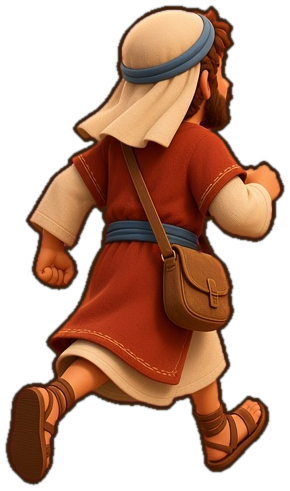
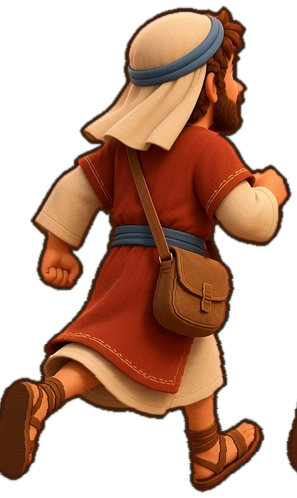
Fix runner frame color flicker; keep props clear of tower wall

diff --git a/game.js b/game.js
@@ -75,7 +75,7 @@ const M = {
   lantern: noOutline(new THREE.MeshBasicMaterial({ color: 0xffe066 })),
   rope: new THREE.LineBasicMaterial({ color: 0x6b4a2e }),
 };
-function spriteMat(tex) { return noOutline(new THREE.MeshBasicMaterial({ map: tex, alphaTest: 0.45, side: THREE.DoubleSide, fog: true })); }
+function spriteMat(tex) { return noOutline(new THREE.MeshBasicMaterial({ map: tex, alphaTest: 0.45, side: THREE.DoubleSide, fog: true, toneMapped: false })); }
 const planeG = new THREE.PlaneGeometry(1, 1); planeG.translate(0, 0.5, 0);
 const planeC = new THREE.PlaneGeometry(1, 1);
 // billboard of given height (keeps texture aspect once loaded)
@@ -615,7 +615,7 @@ function update(dt) {
     const air = S.y > 0.01, sl = S.sliding > 0;
     if (sl) { P.setFrame('slide', 1.45); P.body.position.y = 0; }
     else if (air) { P.setFrame('jump', 2.35); P.body.position.y = 0; }
-    else { const f = Math.floor(animT / 1.6) % 2; P.setFrame(f ? 'run1' : 'run0', 2.3); P.body.position.y = Math.abs(Math.sin(animT * 0.98)) * 0.12; P.sprite.scale.x *= f ? -1 : 1; }
+    else { const f = Math.floor(animT / 1.6) % 2; P.setFrame(f ? 'run1' : 'run0', 2.3); P.body.position.y = Math.abs(Math.sin(animT * 0.98)) * 0.12; }
     P.body.rotation.z = P.lean * 0.18;
   }
   P.blob.scale.setScalar(1 - Math.min(0.6, S.y * 0.2));
